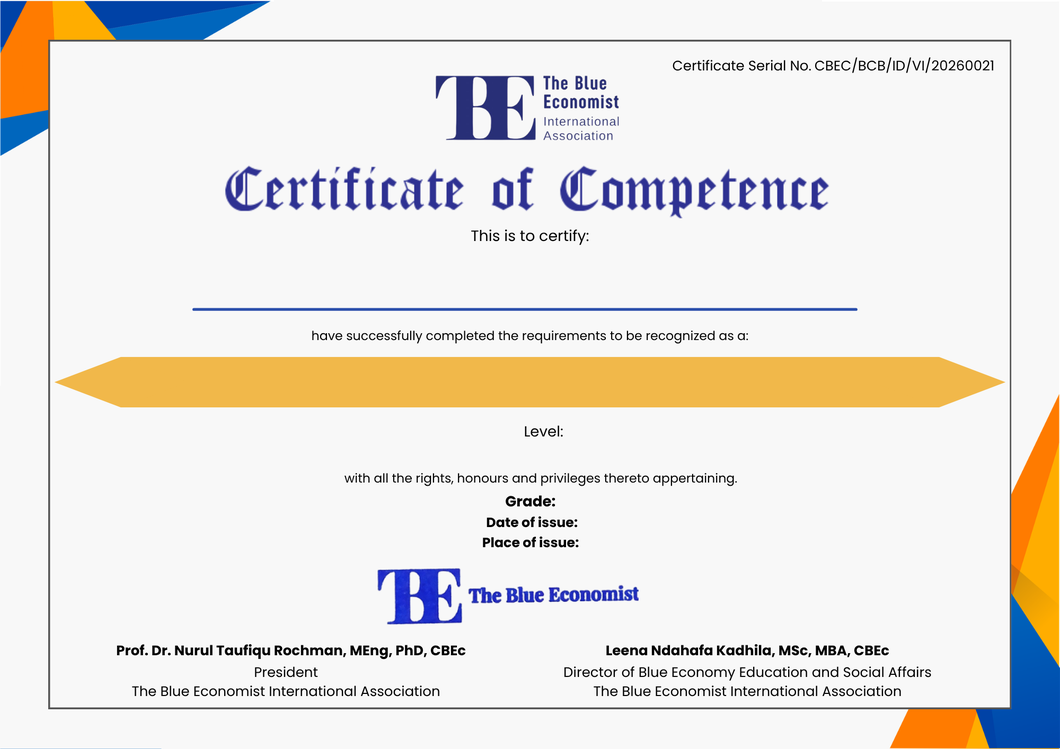
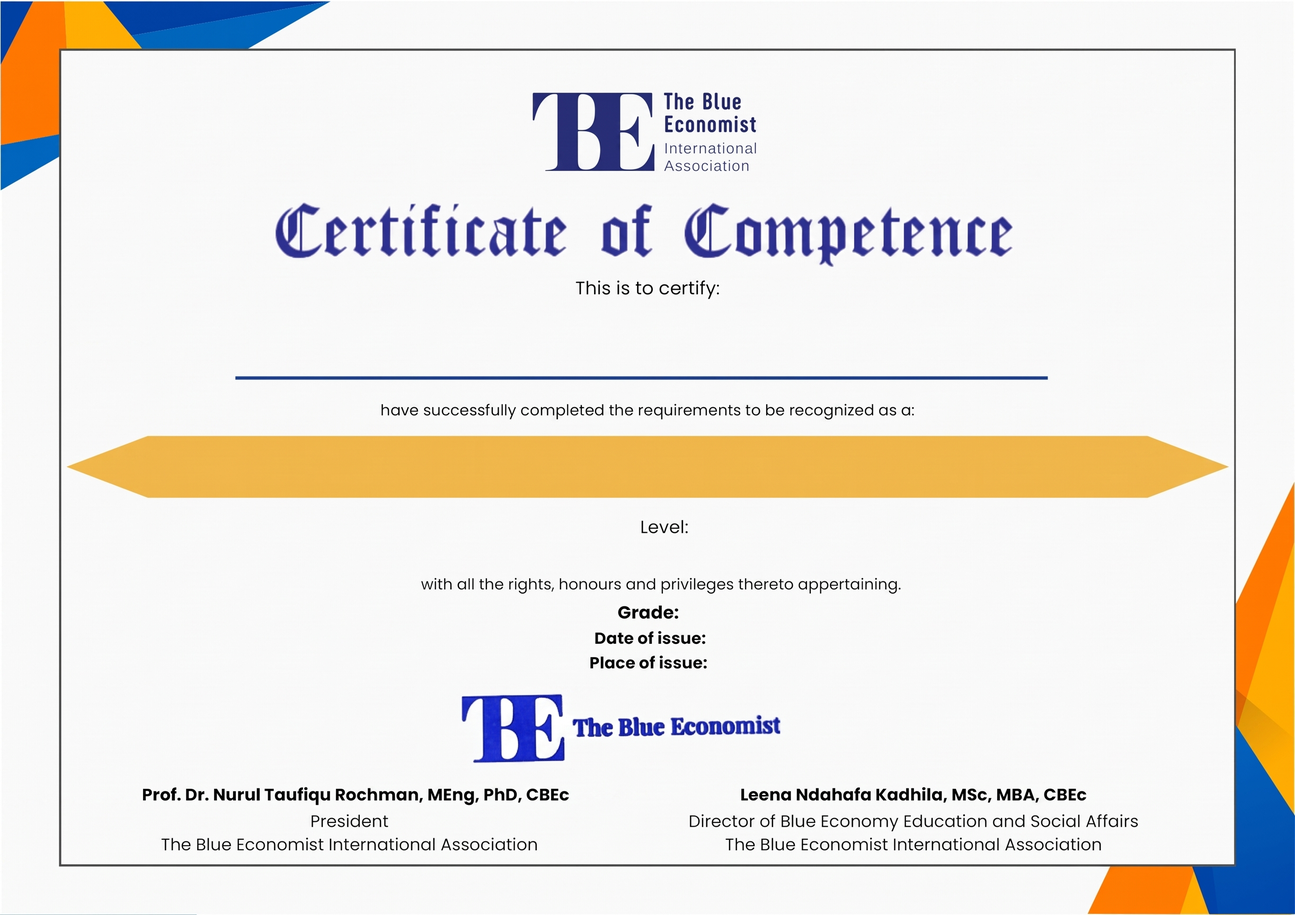
feat: perbarui template sertifikat cbectemplate tanpa nomor seri hardcoded & selaraskan font Arial MT Pro dan Poppins

diff --git a/frontend/src/app/(admin)/admin/certificates/template/page.tsx b/frontend/src/app/(admin)/admin/certificates/template/page.tsx
@@ -293,7 +293,7 @@ export default function CertificateTemplateAdminPage() {
               <div
                 onClick={() => { setSelectedKey('serial_no'); setEditMode(true); setMobilePanelOpen(true); }}
                 className={`absolute cursor-pointer transition-all ${editMode && selectedKey === 'serial_no' ? 'ring-2 ring-blue-500 bg-blue-50/70 rounded' : editMode ? 'hover:ring-1 hover:ring-blue-300' : ''}`}
-                style={{ top: mmToPx(layout.serial_no?.top ?? 13), right: mmToPx(layout.serial_no?.right ?? 14), width: mmToPx(layout.serial_no?.width ?? 105), height: mmToPx(7.5), lineHeight: `${mmToPx(7.5)}px`, backgroundColor: '#F8F8F8', fontSize: `${(layout.serial_no?.font_size ?? 8.8) * (SCALE / 3.4)}px`, fontFamily: 'Arial, sans-serif', color: '#111827', textAlign: 'right', zIndex: 10 }}
+                style={{ top: mmToPx(layout.serial_no?.top ?? 13), right: mmToPx(layout.serial_no?.right ?? 14), width: mmToPx(layout.serial_no?.width ?? 105), height: mmToPx(7.5), lineHeight: `${mmToPx(7.5)}px`, backgroundColor: 'transparent', fontSize: `${(layout.serial_no?.font_size ?? 8.8) * (SCALE / 3.4)}px`, fontFamily: "'Poppins', sans-serif", color: '#111827', textAlign: 'right', zIndex: 10 }}
               >
                 Certificate Serial No. {sample.serial}
               </div>
@@ -302,7 +302,7 @@ export default function CertificateTemplateAdminPage() {
               <div
                 onClick={() => { setSelectedKey('recipient_name'); setEditMode(true); setMobilePanelOpen(true); }}
                 className={`absolute cursor-pointer transition-all ${editMode && selectedKey === 'recipient_name' ? 'ring-2 ring-blue-500 bg-blue-50/20 rounded' : editMode ? 'hover:ring-1 hover:ring-blue-300' : ''}`}
-                style={{ top: mmToPx(layout.recipient_name?.top ?? 67), left: 0, right: 0, height: mmToPx(16), lineHeight: `${mmToPx(16)}px`, textAlign: 'center', fontSize: `${(layout.recipient_name?.font_size ?? 27) * (SCALE / 3.4)}px`, fontWeight: 700, color: '#000', fontFamily: 'Arial, sans-serif', zIndex: 10 }}
+                style={{ top: mmToPx(layout.recipient_name?.top ?? 67), left: 0, right: 0, height: mmToPx(16), lineHeight: `${mmToPx(16)}px`, textAlign: 'center', fontSize: `${(layout.recipient_name?.font_size ?? 27) * (SCALE / 3.4)}px`, fontWeight: 700, color: '#000', fontFamily: "'Arial MT Pro', Arial, sans-serif", zIndex: 10 }}
               >
                 {sample.name}
               </div>
@@ -311,7 +311,7 @@ export default function CertificateTemplateAdminPage() {
               <div
                 onClick={() => { setSelectedKey('ribbon_text'); setEditMode(true); setMobilePanelOpen(true); }}
                 className={`absolute cursor-pointer transition-all ${editMode && selectedKey === 'ribbon_text' ? 'ring-2 ring-blue-500 bg-amber-400/10 rounded' : editMode ? 'hover:ring-1 hover:ring-blue-300' : ''}`}
-                style={{ top: mmToPx(layout.ribbon_text?.top ?? 100.5), left: mmToPx(20), right: mmToPx(20), height: mmToPx(layout.ribbon_text?.height ?? 14), lineHeight: `${mmToPx(layout.ribbon_text?.height ?? 14)}px`, textAlign: 'center', fontSize: `${(layout.ribbon_text?.font_size ?? 14.5) * (SCALE / 3.4)}px`, fontWeight: 700, color: '#173874', fontFamily: 'Arial, sans-serif', zIndex: 10 }}
+                style={{ top: mmToPx(layout.ribbon_text?.top ?? 100.5), left: mmToPx(20), right: mmToPx(20), height: mmToPx(layout.ribbon_text?.height ?? 14), lineHeight: `${mmToPx(layout.ribbon_text?.height ?? 14)}px`, textAlign: 'center', fontSize: `${(layout.ribbon_text?.font_size ?? 14.5) * (SCALE / 3.4)}px`, fontWeight: 700, color: '#173874', fontFamily: "'Arial MT Pro', Arial, sans-serif", zIndex: 10 }}
               >
                 {sample.ribbon}
               </div>
@@ -320,7 +320,7 @@ export default function CertificateTemplateAdminPage() {
               <div
                 onClick={() => { setSelectedKey('level_value'); setEditMode(true); setMobilePanelOpen(true); }}
                 className={`absolute cursor-pointer transition-all ${editMode && selectedKey === 'level_value' ? 'ring-2 ring-blue-500 bg-blue-50/30 rounded' : editMode ? 'hover:ring-1 hover:ring-blue-300' : ''}`}
-                style={{ top: mmToPx(layout.level_value?.top ?? 124.5), left: 0, right: 0, textAlign: 'center', fontSize: `${(layout.level_value?.font_size ?? 11.5) * (SCALE / 3.4)}px`, fontWeight: 700, color: '#000', fontFamily: 'Arial, sans-serif', zIndex: 10 }}
+                style={{ top: mmToPx(layout.level_value?.top ?? 124.5), left: 0, right: 0, textAlign: 'center', fontSize: `${(layout.level_value?.font_size ?? 11.5) * (SCALE / 3.4)}px`, fontWeight: 700, color: '#000', fontFamily: "'Poppins', sans-serif", zIndex: 10 }}
               >
                 {sample.level}
               </div>
@@ -329,7 +329,7 @@ export default function CertificateTemplateAdminPage() {
               <div
                 onClick={() => { setSelectedKey('meta_block'); setEditMode(true); setMobilePanelOpen(true); }}
                 className={`absolute cursor-pointer transition-all ${editMode && selectedKey === 'meta_block' ? 'ring-2 ring-blue-500 bg-blue-50/50 rounded' : editMode ? 'hover:ring-1 hover:ring-blue-300' : ''}`}
-                style={{ top: mmToPx(layout.meta_block?.top ?? 138.2), left: mmToPx(103.5), width: mmToPx(90), height: mmToPx(18.5), backgroundColor: '#F8F8F8', textAlign: 'center', fontSize: `${(layout.meta_block?.font_size ?? 8.4) * (SCALE / 3.4)}px`, lineHeight: 1.55, color: '#111827', fontFamily: 'Arial, sans-serif', zIndex: 10 }}
+                style={{ top: mmToPx(layout.meta_block?.top ?? 138.2), left: mmToPx(103.5), width: mmToPx(90), height: mmToPx(18.5), backgroundColor: '#F8F8F8', textAlign: 'center', fontSize: `${(layout.meta_block?.font_size ?? 8.4) * (SCALE / 3.4)}px`, lineHeight: 1.55, color: '#111827', fontFamily: "'Poppins', sans-serif", zIndex: 10 }}
               >
                 <div><strong>Grade:</strong> {sample.grade}</div>
                 <div><strong>Date of issue:</strong> {sample.date}</div>
@@ -467,7 +467,15 @@ export default function CertificateTemplateAdminPage() {
               <div className="px-4 py-4 space-y-4">
                 <div className="flex items-center justify-between">
                   <span className="text-xs font-semibold text-slate-200">{sel.label}</span>
-                  <span className="text-[10px] text-slate-500 bg-slate-800 px-2 py-0.5 rounded font-mono">mm</span>
+                  <div className="flex items-center gap-1.5">
+                    {['recipient_name', 'ribbon_text'].includes(selectedKey) && (
+                      <span className="text-[10px] text-amber-300 bg-amber-950/60 border border-amber-800/60 px-2 py-0.5 rounded font-medium">Arial MT Pro</span>
+                    )}
+                    {['serial_no', 'level_value', 'meta_block'].includes(selectedKey) && (
+                      <span className="text-[10px] text-sky-300 bg-sky-950/60 border border-sky-800/60 px-2 py-0.5 rounded font-medium">Poppins</span>
+                    )}
+                    <span className="text-[10px] text-slate-500 bg-slate-800 px-2 py-0.5 rounded font-mono">mm</span>
+                  </div>
                 </div>
 
                 {/* Top */}

diff --git a/backend/resources/views/certificates/template.blade.php b/backend/resources/views/certificates/template.blade.php
@@ -3,7 +3,12 @@
 <head>
     <meta charset="UTF-8">
     <title>Certificate – {{ $user->name }}</title>
+    <link rel="preconnect" href="https://fonts.googleapis.com">
+    <link rel="preconnect" href="https://fonts.gstatic.com" crossorigin>
+    <link href="https://fonts.googleapis.com/css2?family=Poppins:wght@400;600;700&display=swap" rel="stylesheet">
     <style>
+        @import url('https://fonts.googleapis.com/css2?family=Poppins:wght@400;600;700&display=swap');
+
         * { margin: 0; padding: 0; box-sizing: border-box; }
         @page { margin: 0; size: A4 landscape; }
 
@@ -12,7 +17,7 @@
             height: 210mm;
             position: relative;
             overflow: hidden;
-            font-family: 'DejaVu Sans', Arial, Helvetica, sans-serif;
+            font-family: 'Poppins', 'DejaVu Sans', Arial, Helvetica, sans-serif;
             background: #F8F8F8;
         }
 
@@ -32,7 +37,7 @@
             z-index: 2;
         }
 
-        /* ── Serial Number (Covers template placeholder completely) ── */
+        /* ── Serial Number ── */
         .f-serial {
             position: absolute;
             top: 13.0mm;
@@ -40,8 +45,9 @@
             width: 105mm;
             height: 7.5mm;
             line-height: 7.5mm;
-            background: #F8F8F8;
+            background: transparent;
             font-size: 8.8pt;
+            font-family: 'Poppins', 'DejaVu Sans', sans-serif;
             color: #111827;
             text-align: right;
             z-index: 3;
@@ -58,6 +64,7 @@
             text-align: center;
             font-size: 27pt;
             font-weight: bold;
+            font-family: 'Arial MT Pro', Arial, Helvetica, sans-serif;
             color: #000000;
             letter-spacing: 0.3px;
             z-index: 3;
@@ -74,6 +81,7 @@
             text-align: center;
             font-size: 14.5pt;
             font-weight: bold;
+            font-family: 'Arial MT Pro', Arial, Helvetica, sans-serif;
             color: #173874;
             letter-spacing: 0.1px;
             z-index: 3;
@@ -88,6 +96,7 @@
             text-align: center;
             font-size: 11.5pt;
             font-weight: bold;
+            font-family: 'Poppins', 'DejaVu Sans', sans-serif;
             color: #000000;
             z-index: 3;
         }
@@ -102,6 +111,7 @@
             background: #F8F8F8;
             text-align: center;
             font-size: 8.4pt;
+            font-family: 'Poppins', 'DejaVu Sans', sans-serif;
             line-height: 1.55;
             color: #111827;
             z-index: 3;

diff --git a/backend/app/Http/Controllers/Api/AdminCertificateController.php b/backend/app/Http/Controllers/Api/AdminCertificateController.php
@@ -154,7 +154,9 @@ class AdminCertificateController extends Controller
         $qrSvg = \QrCode::format('svg')->size(140)->generate($verificationUrl);
         $qrImageBase64 = base64_encode($qrSvg);
 
-        $templatePath = resource_path('images/template_CBEc.png');
+        $templatePath = file_exists(resource_path('images/template_CBEc.png'))
+            ? resource_path('images/template_CBEc.png')
+            : resource_path('images/cbectemplate.jpg');
         $templateBase64 = file_exists($templatePath)
             ? base64_encode(file_get_contents($templatePath))
             : null;
@@ -220,16 +222,23 @@ class AdminCertificateController extends Controller
     /** Return template image sebagai base64 untuk frontend designer */
     public function getTemplateImage(): JsonResponse
     {
-        $templatePath = resource_path('images/template_CBEc.png');
+        $templatePath = file_exists(resource_path('images/template_CBEc.png'))
+            ? resource_path('images/template_CBEc.png')
+            : (file_exists(resource_path('images/cbectemplate.jpg'))
+                ? resource_path('images/cbectemplate.jpg')
+                : null);
 
-        if (! file_exists($templatePath)) {
+        if (! $templatePath || ! file_exists($templatePath)) {
             return response()->json(['message' => 'Template image tidak ditemukan.'], 404);
         }
+
+        $extension = strtolower(pathinfo($templatePath, PATHINFO_EXTENSION));
+        $mimeType  = ($extension === 'jpg' || $extension === 'jpeg') ? 'image/jpeg' : 'image/png';
 
         return response()->json([
             'data' => [
                 'base64'    => base64_encode(file_get_contents($templatePath)),
-                'mime_type' => 'image/png',
+                'mime_type' => $mimeType,
                 'width_mm'  => 297,
                 'height_mm' => 210,
             ],

diff --git a/backend/app/Http/Controllers/Api/CertificateController.php b/backend/app/Http/Controllers/Api/CertificateController.php
@@ -45,7 +45,9 @@ class CertificateController extends Controller
         $qrImageBase64 = base64_encode($qrSvg);
 
         // Load template background image as base64 for inline embedding in PDF
-        $templatePath = resource_path('images/template_CBEc.png');
+        $templatePath = file_exists(resource_path('images/template_CBEc.png'))
+            ? resource_path('images/template_CBEc.png')
+            : resource_path('images/cbectemplate.jpg');
         $templateBase64 = file_exists($templatePath)
             ? base64_encode(file_get_contents($templatePath))
             : null;
